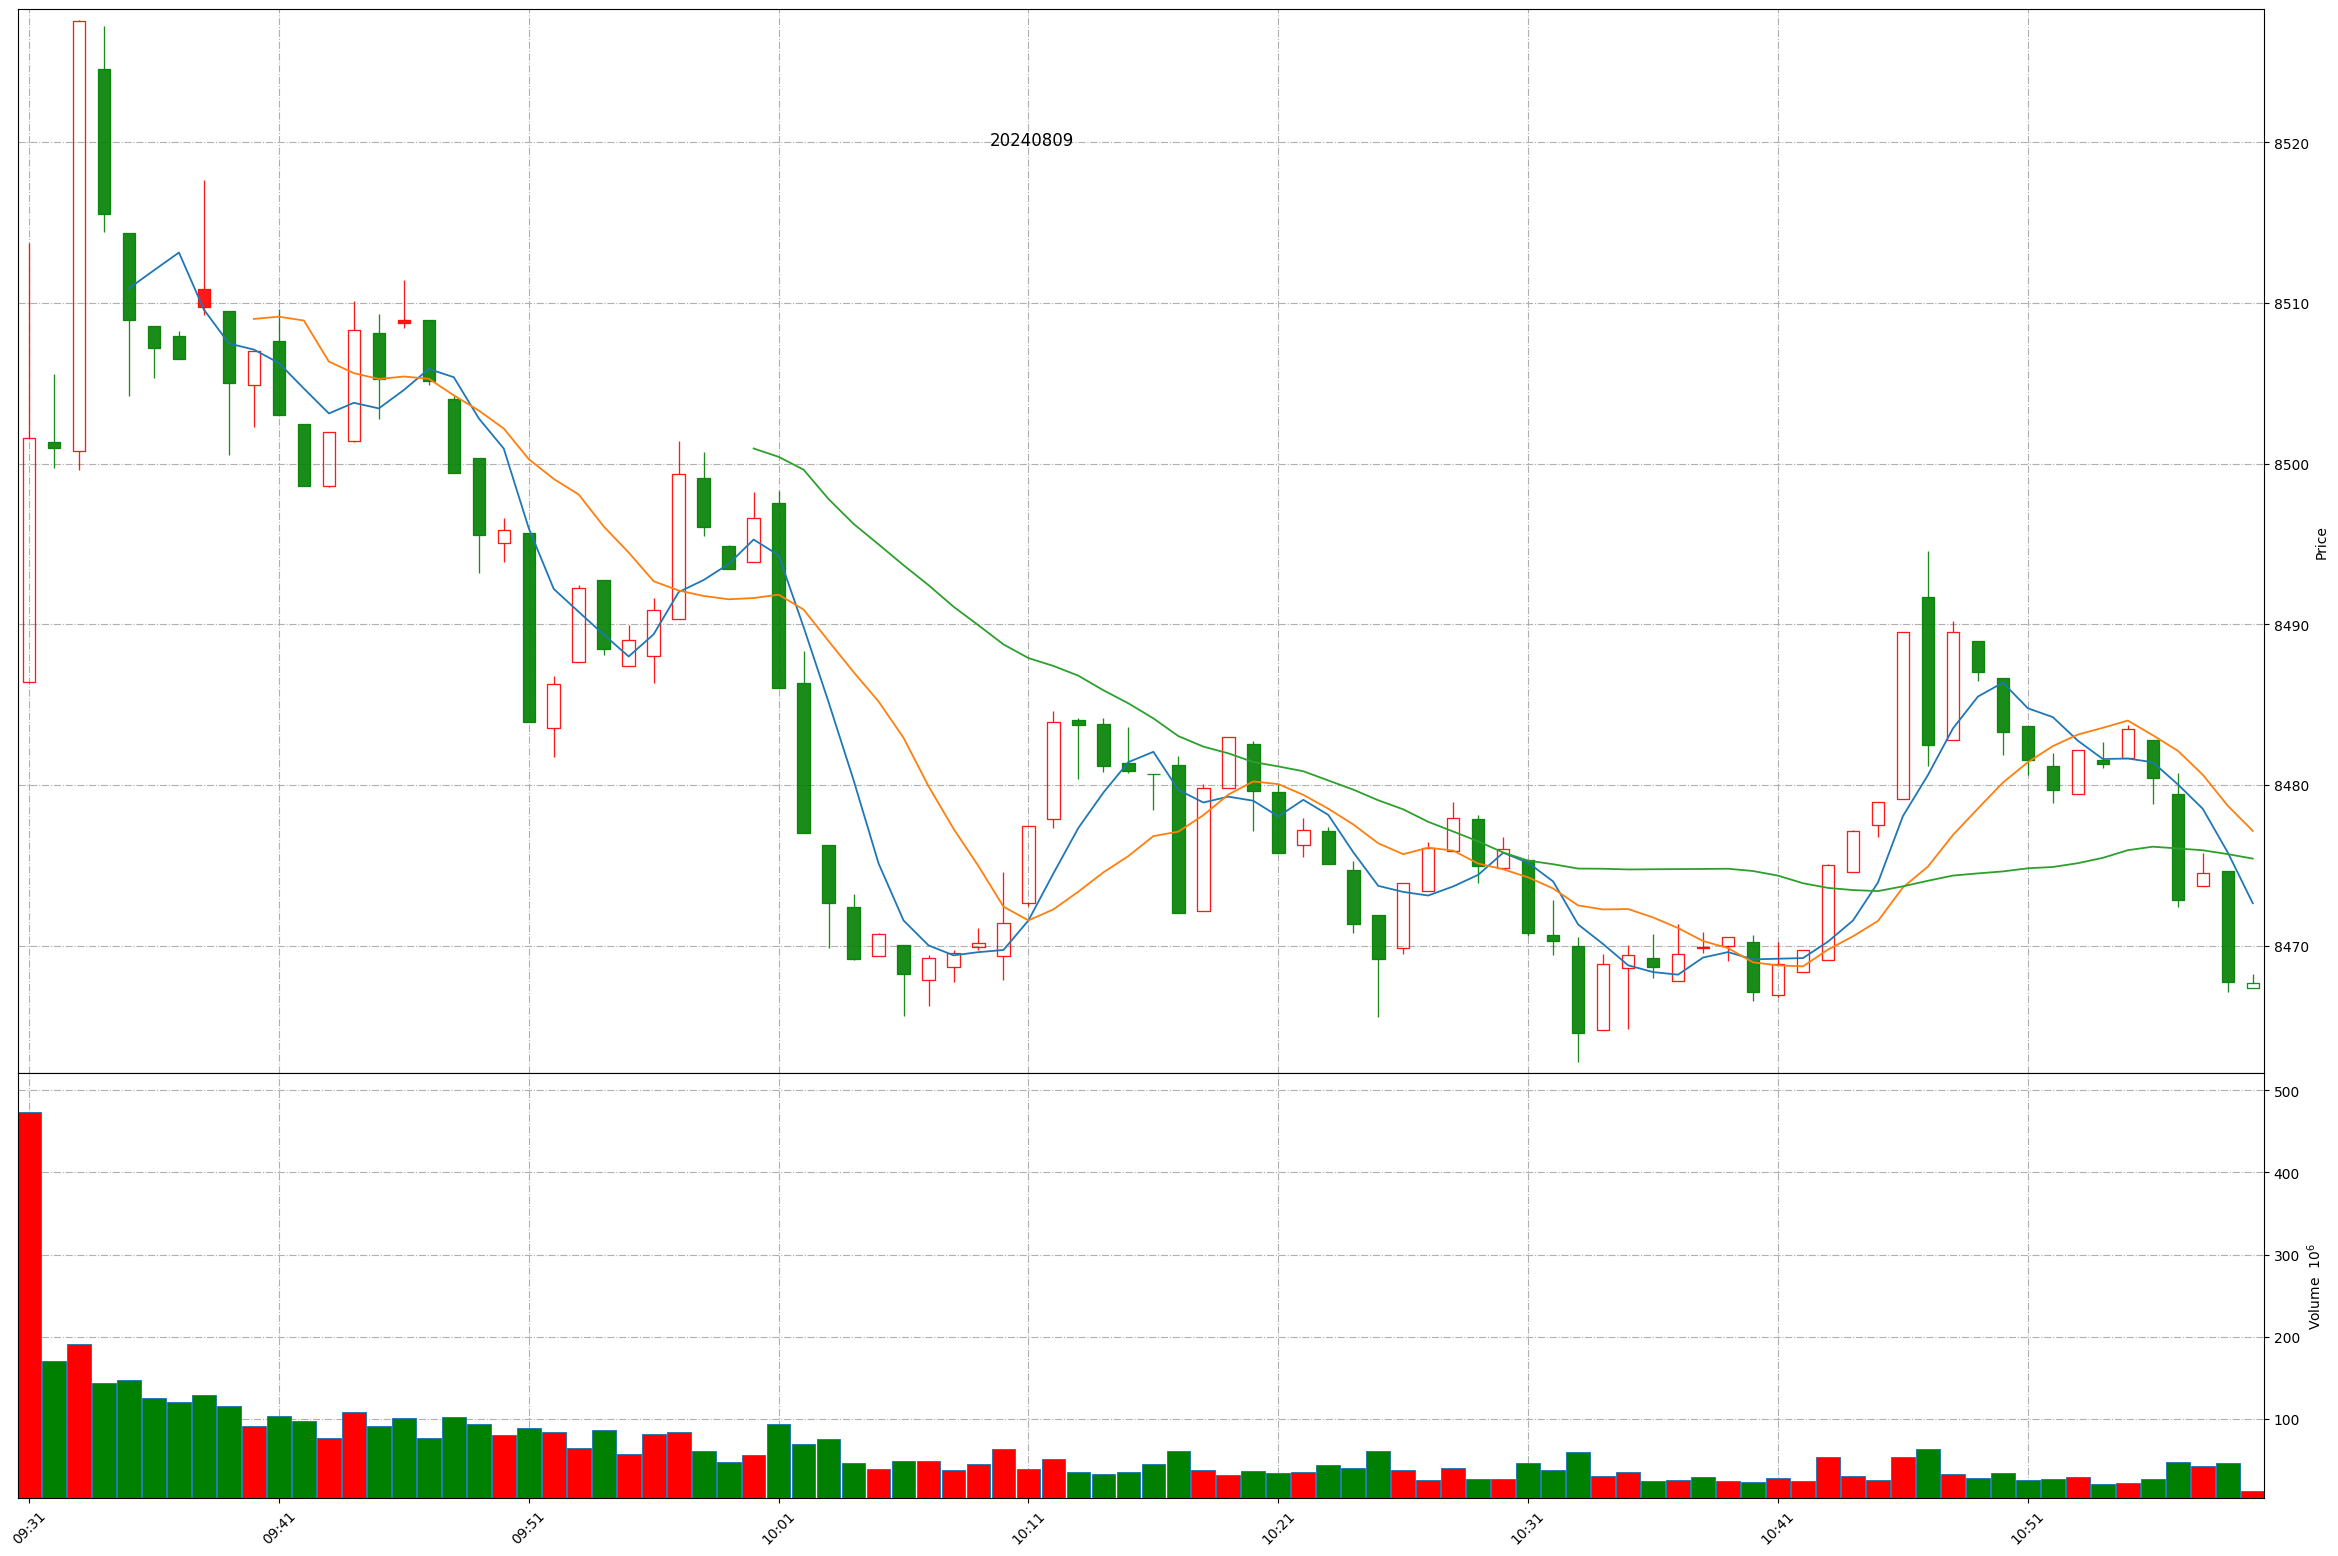
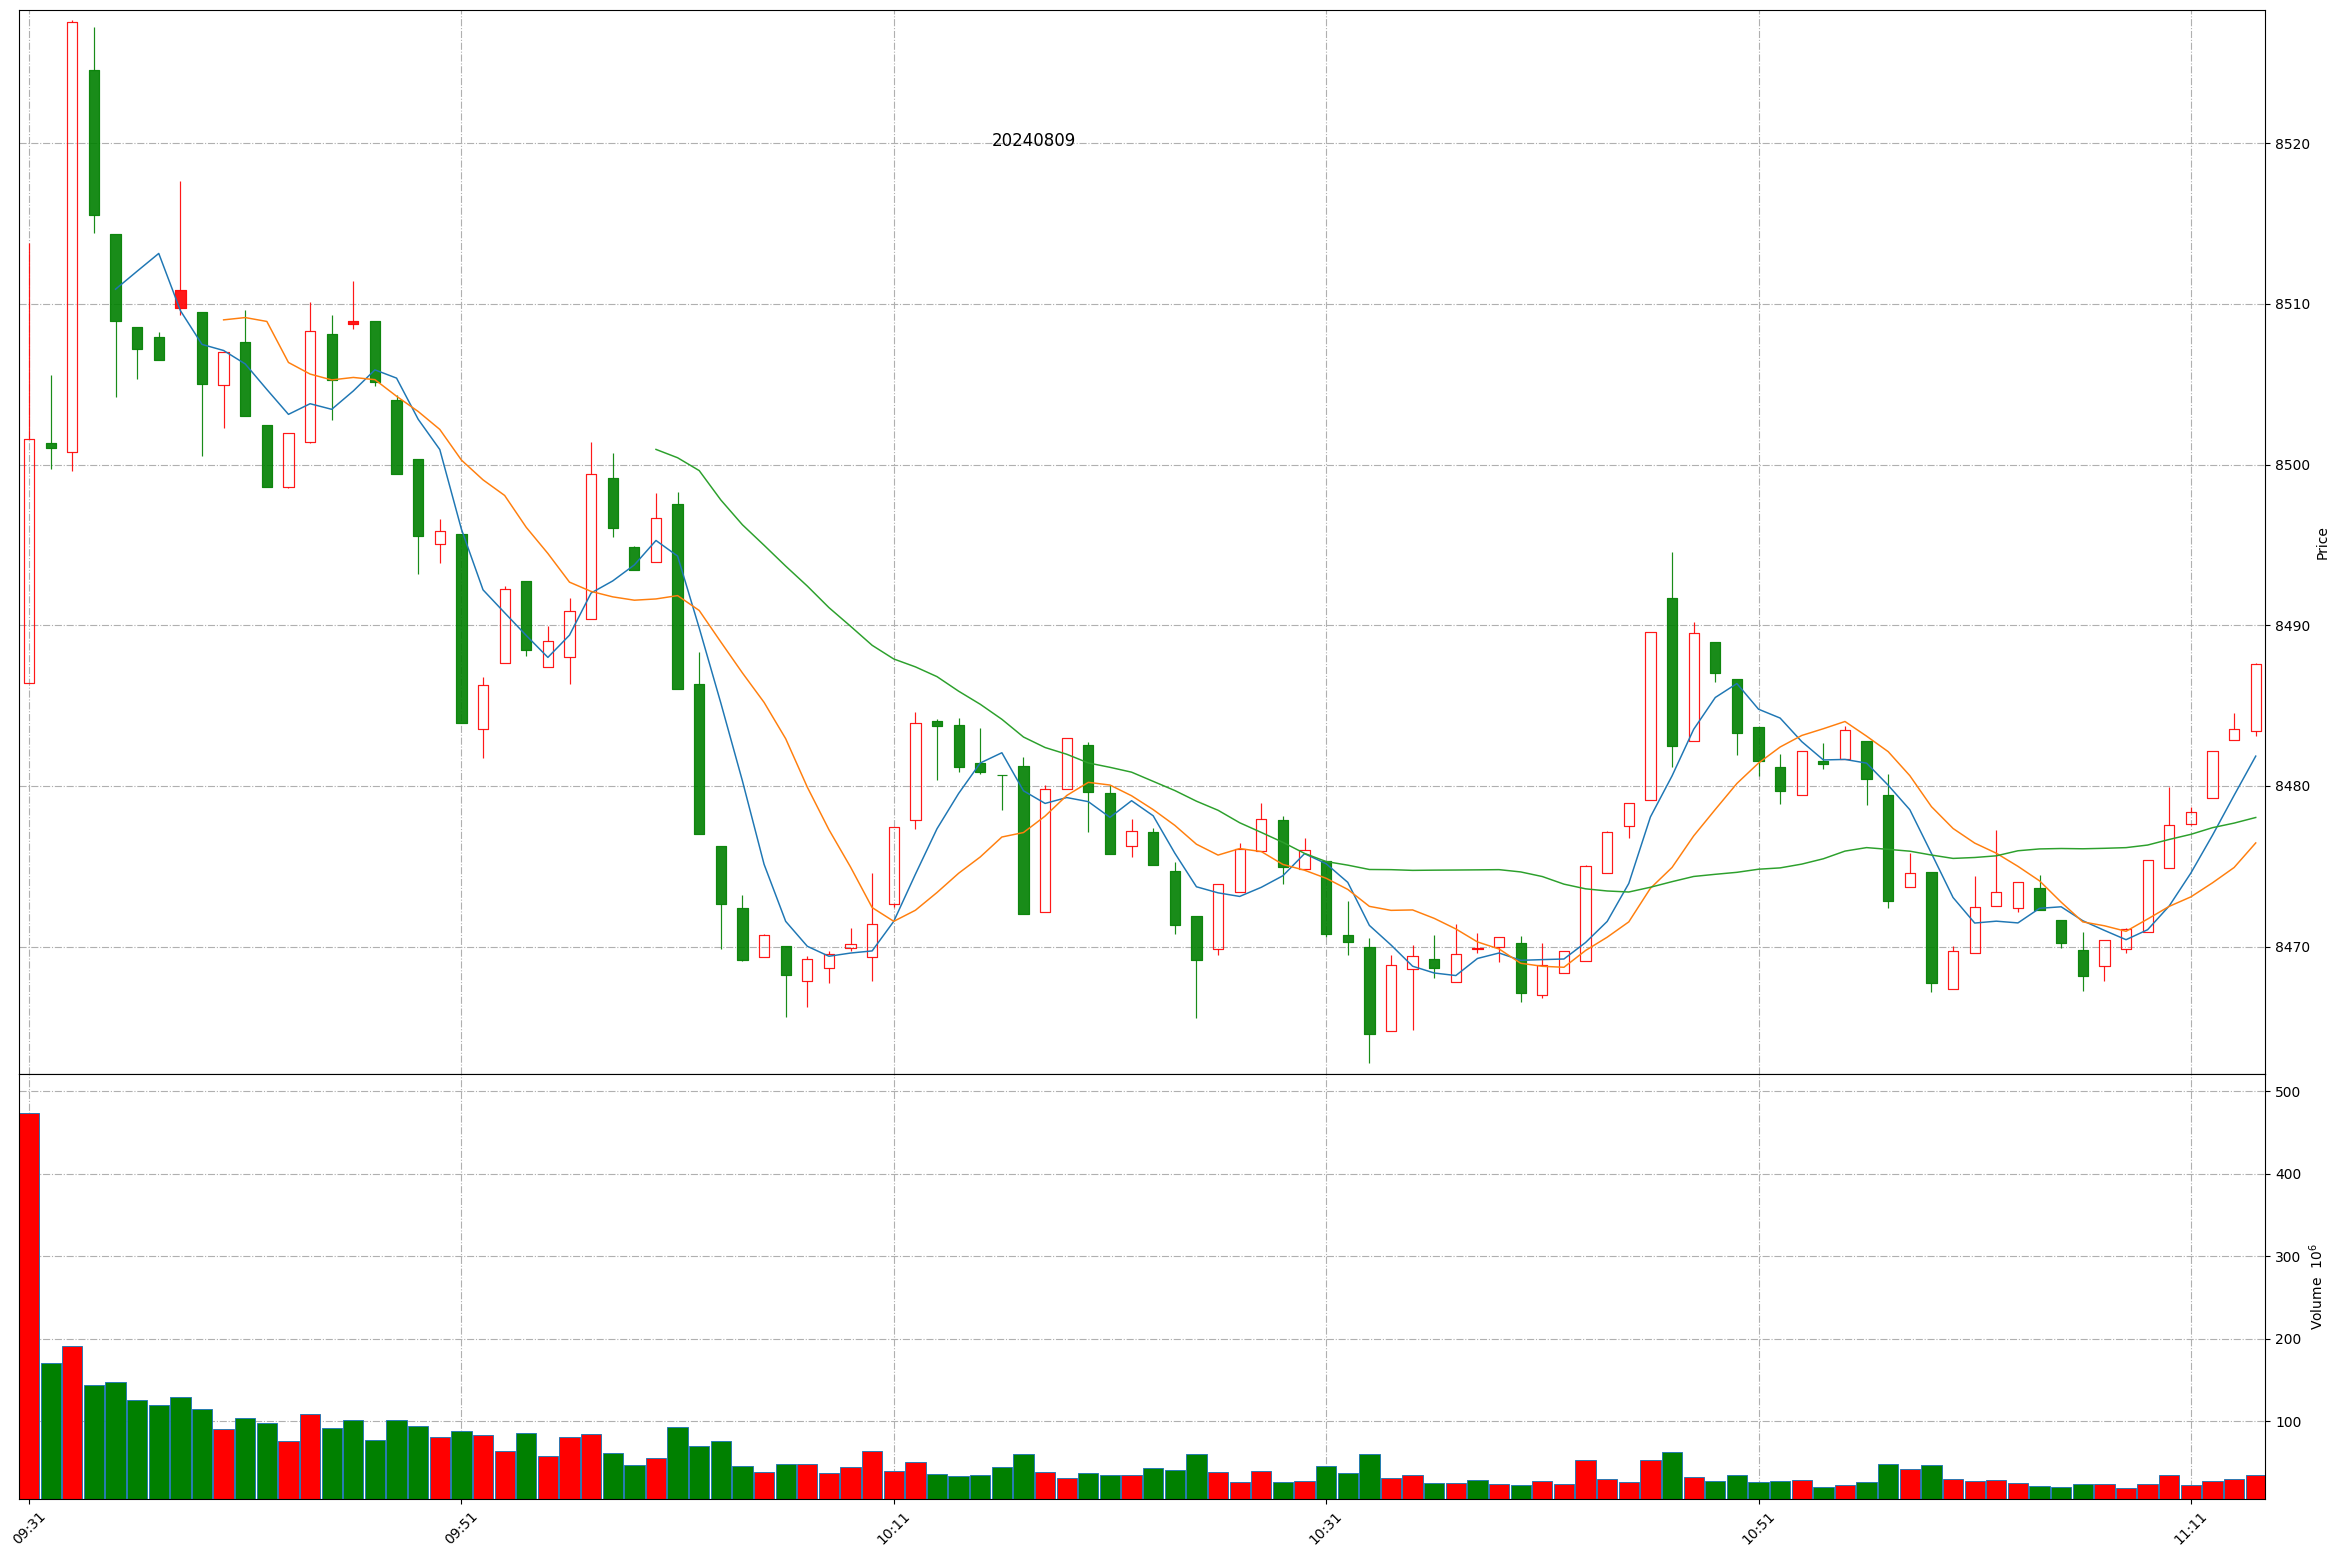
Github action update at 2024-08-09 11:14:11.

Changed region(s): [[0.0, 0.0, 0.9679, 0.6787], [0.0, 0.8638, 0.9679, 0.9871], [0.4371, 0.0617, 0.4683, 0.0925]]

diff --git a/README.md b/README.md
@@ -1,11 +1,11 @@
 
 # Daily-A-share-market-quotes 每日 A 股指数（5min 更新）- 20240809
 
-### 上证指数 20240809 10:59
+### 上证指数 20240809 11:14
 ![](./fig/2024/8/20240809-sh000001.png)
 
-### 深证成指 20240809 10:59
+### 深证成指 20240809 11:14
 ![](./fig/2024/8/20240809-sz399001.png)
 
-### 北证50 20240809 10:59
+### 北证50 20240809 11:14
 ![](./fig/2024/8/20240809-bj899050.png)
